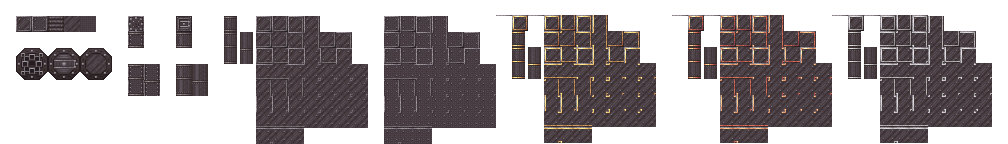
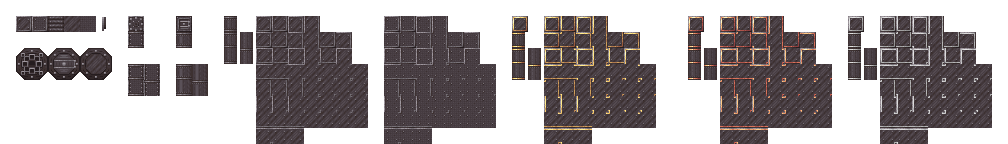
new locometal palettes and sheet

diff --git a/generic_palettizer/palettizer.py b/generic_palettizer/palettizer.py
@@ -582,8 +582,8 @@ palette_sets = [
                 'white',
                 sectors=smoke_bundle.sectors()),
     PaletteConf("palettes_plus", "palettes_plus_sheet.png", "palettes_plus_palette.png",
-                ['brown', 'red', 'orange', 'yellow', 'lime', 'green', 'cyan', 'turquoise', 'light_blue', 'blue',
-                 'deep_blue', 'purple', 'magenta', 'pink', 'white', 'light_gray', 'gray', 'black', 'netherite'],
+                ['brown', 'red', 'orange', 'yellow', 'lime', 'green', 'pine_green', 'cyan', 'turquoise', 'light_blue', 'blue',
+                 'royal_blue', 'purple', 'magenta', 'pink', 'white', 'light_gray', 'gray', 'black', 'netherite'],
                 'netherite',
                 palette_processors=[shift_horiz(None, -1), shift_vert(None, -1), half_scale],
                 permitted_palette_empty_columns=1,
